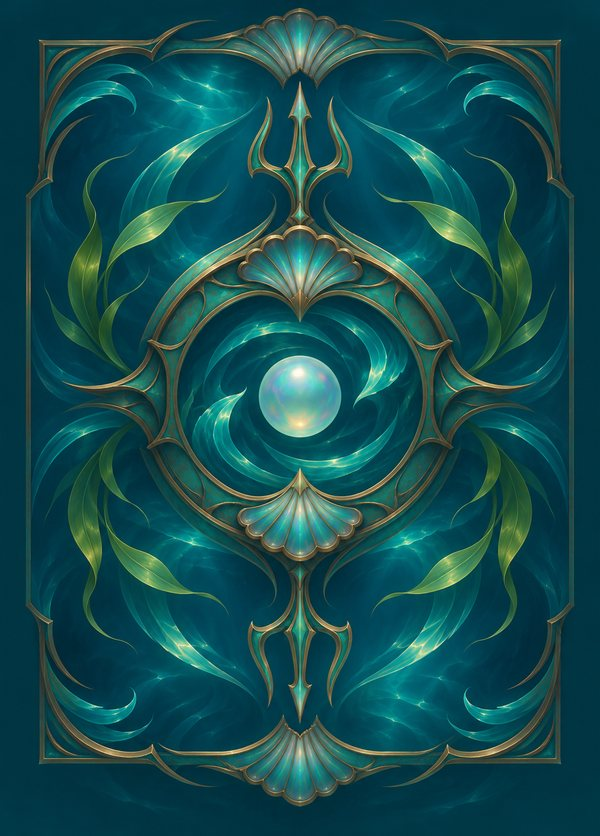
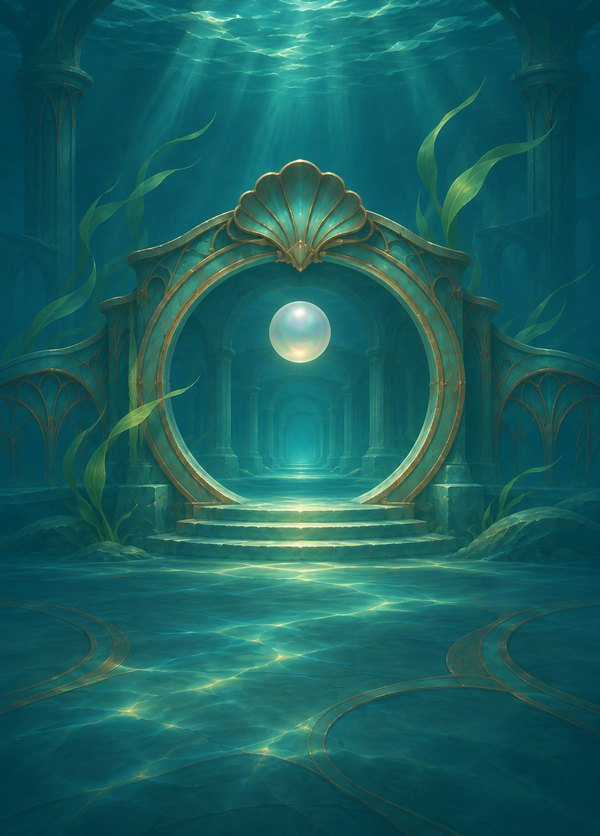
Sleeves: art for all nine original sets
From Drive (Magic Commanders / Sleeves): sleeves for Sunlit Citadel, Moonlit
Crystal City, Void Leviathan, Molten Dragon, Emerald Portal and Isle of Arcane
Storms, so each new playmat is a full set, and new sleeve art for Prism Nexus,
Sunken Gate and Eclipse Spires (portrait versions of their playmats, replacing
the ornamental backs). Saved at the app's card-back size, 600x836.

Claude-Session: https://claude.ai/code/session_01K5kL4YgVQ6tZxzA48G59TU

diff --git a/goldfish/static/looks.js b/goldfish/static/looks.js
@@ -24,7 +24,7 @@
     { id: 'prism', name: 'Prism Nexus', image: 'looks/mat-prism.jpg', shop: '' },
     { id: 'tide', name: 'Sunken Gate', image: 'looks/mat-tide.jpg', shop: '' },
     { id: 'eclipse', name: 'Eclipse Spires', image: 'looks/mat-eclipse.jpg', shop: '' },
-    // the second wave of I See Fish originals (Drive: Magic Commanders / Playmats), upscaled with Real-ESRGAN x4plus; sleeves are a colour until their art exists
+    // the second wave of I See Fish originals (Drive: Magic Commanders / Playmats), upscaled with Real-ESRGAN x4plus; their sleeves are in Magic Commanders / Sleeves
     { id: 'angel', name: 'Sunlit Citadel', image: 'looks/mat-angel.jpg', shop: '' },
     { id: 'crystal', name: 'Moonlit Crystal City', image: 'looks/mat-crystal.jpg', shop: '' },
     { id: 'leviathan', name: 'Void Leviathan', image: 'looks/mat-leviathan.jpg', shop: '' },
@@ -46,6 +46,12 @@
     { id: 'prism', name: 'Prism Nexus', color: '#b8913f', back: 'looks/sleeve-prism.jpg', shop: '' },
     { id: 'tide', name: 'Sunken Gate', color: '#2a8c86', back: 'looks/sleeve-tide.jpg', shop: '' },
     { id: 'eclipse', name: 'Eclipse Spires', color: '#8e4bb5', back: 'looks/sleeve-eclipse.jpg', shop: '' },
+    { id: 'angel', name: 'Sunlit Citadel', color: '#d6ad4f', back: 'looks/sleeve-angel.jpg', shop: '' },
+    { id: 'crystal', name: 'Moonlit Crystal City', color: '#4f9fe0', back: 'looks/sleeve-crystal.jpg', shop: '' },
+    { id: 'leviathan', name: 'Void Leviathan', color: '#9b4fd1', back: 'looks/sleeve-leviathan.jpg', shop: '' },
+    { id: 'dragon', name: 'Molten Dragon', color: '#d2452a', back: 'looks/sleeve-dragon.jpg', shop: '' },
+    { id: 'emerald', name: 'Emerald Portal', color: '#2fa85a', back: 'looks/sleeve-emerald.jpg', shop: '' },
+    { id: 'storm', name: 'Isle of Arcane Storms', color: '#2f6fd0', back: 'looks/sleeve-storm.jpg', shop: '' },
     { id: 'ice', name: 'Ice blue', color: '#4aa6e0' },
     { id: 'black', name: 'Matte black', color: '#1d1f22' },
     { id: 'white', name: 'Pearl white', color: '#e9edf0' },
@@ -111,7 +117,7 @@
 
   // ---- sets: a playmat with its matching sleeves. The 1v1 and Pod tables deal one to every player. ----
   // The original designs pair with the sleeve of the same name; each plain playmat pairs with a sleeve colour that suits it.
-  const PAIR = { angel: 'gold', crystal: 'ice', leviathan: 'purple', dragon: 'red', emerald: 'green', storm: 'sapphire', felt: 'green', crimson: 'red', royal: 'purple', slate: 'black', dusk: 'orange', tidepool: 'ice', stars: 'sapphire', sand: 'gold' };
+  const PAIR = { felt: 'green', crimson: 'red', royal: 'purple', slate: 'black', dusk: 'orange', tidepool: 'ice', stars: 'sapphire', sand: 'gold' };
   const SETS = MATS.filter(m => m.id !== 'frozen').map(m => {
     const s = SLEEVES.find(x => x.id === m.id && x.color) || SLEEVES.find(x => x.id === PAIR[m.id]);
     return s ? { id: m.id, name: m.name, mat: m.id, sleeve: s.id, art: !!m.image } : null;

diff --git a/tests/ui/looks.ui.js b/tests/ui/looks.ui.js
@@ -30,12 +30,13 @@ const check = (name, ok, detail) => { (ok ? pass++ : fail++); console.log((ok ? 
   check('choosing a playmat changes the table background', (await bg()) !== bg0);
   check('choosing a sleeve changes the card back', (await back()) !== back0 && await p.$eval('html', e => e.classList.contains('sleeved')));
   check('the chosen ones are marked in the picker', await p.$eval('[data-mat=crimson]', e => e.getAttribute('aria-pressed')) === 'true' && await p.$eval('[data-sleeve=green]', e => e.getAttribute('aria-pressed')) === 'true');
-  check('your nine original playmats and the three original sleeves each have a placeholder shop button', (await p.$$eval('button.look-shop.soon', x => x.length)) === 12);
+  check('your nine original playmats and their nine sleeves each have a placeholder shop button', (await p.$$eval('button.look-shop.soon', x => x.length)) === 18);
+  check('each new playmat has its own sleeve art, so they are full sets', (await p.$$eval('#lkSleeves .look-sw', x => x.map(b => b.dataset.sleeve))).filter(m => ['angel', 'crystal', 'leviathan', 'dragon', 'emerald', 'storm'].includes(m)).length === 6 && await p.evaluate(() => ['angel', 'crystal', 'leviathan', 'dragon', 'emerald', 'storm'].every(id => __isfLooks.SLEEVES.find(s => s.id === id && /sleeve-/.test(s.back)))));
   check('the six new playmats are listed with their upscaled art', (await p.$$eval('#lkMats .look-sw', x => x.map(b => b.dataset.mat))).filter(m => ['angel', 'crystal', 'leviathan', 'dragon', 'emerald', 'storm'].includes(m)).length === 6);
   await p.click('button.look-shop.soon[data-shop="mat:tide"]');
   check('clicking a placeholder says the shop is coming soon, and changes nothing', /Sunken Gate playmat is coming soon/.test(await p.textContent('#lkShopMsg')) && (await p.evaluate(() => __isfLooks.get().mat)) === 'crimson' && p.url().startsWith('http://127.0.0.1:8800/'));
   await p.evaluate(() => { __isfLooks.MATS.find(m => m.id === 'prism').shop = 'https://example.com/prism-mat'; __isfLooks.close(); __isfLooks.open(); });
-  check('filling in a shop URL turns the placeholder into a real link', (await p.$eval('a.look-shop[data-shop="mat:prism"]', e => e.href)) === 'https://example.com/prism-mat' && (await p.$$eval('button.look-shop.soon', x => x.length)) === 11);
+  check('filling in a shop URL turns the placeholder into a real link', (await p.$eval('a.look-shop[data-shop="mat:prism"]', e => e.href)) === 'https://example.com/prism-mat' && (await p.$$eval('button.look-shop.soon', x => x.length)) === 17);
   await p.keyboard.press('Escape');
   check('Escape closes it', !(await p.isVisible('#lookPicker')));
 

diff --git a/tests/ui/versus.ui.js b/tests/ui/versus.ui.js
@@ -195,12 +195,12 @@ const shot = process.env.VERSUS_SHOTS;
   // playmats and sleeves: every player is dealt a random set, all different; your own pick goes on your seat
   const seatLooks = () => p.$$eval('#tab-pod .vs-seat', ss => ss.map(s => ({ me: s.classList.contains('me'), set: s.dataset.set, sleeved: s.classList.contains('sleeved'),
     mat: getComputedStyle(s).backgroundImage, sleeve: s.style.getPropertyValue('--sleeve'), back: getComputedStyle(s.querySelector('.card-back')).backgroundImage })));
-  const lk = await seatLooks(), originals = ['Prism Nexus', 'Sunken Gate', 'Eclipse Spires'];
+  const lk = await seatLooks(), originals = await p.evaluate(() => window.__isfLooks.MATS.filter(m => m.image).map(m => m.name));          // the I See Fish original sets (art playmat + art sleeves)
   check('every player in the pod has a playmat-and-sleeves set', lk.length === 4 && lk.every(x => x.set && x.sleeved && x.mat !== 'none' && x.sleeve), lk.map(x => (x.me ? 'You: ' : '') + x.set).join(' | '));
   check('no two players have the same set', new Set(lk.map(x => x.set)).size === 4 && new Set(lk.map(x => x.mat)).size === 4);
-  check('the three original designs are all on the table', originals.every(n => lk.some(x => x.set === n)));
+  check(`the original designs are dealt first: every seat has one of the ${originals.length} original sets`, originals.length >= 9 && lk.every(x => originals.includes(x.set)), lk.map(x => x.set).join(' | '));
   check('each library shows that player\'s own sleeve back', new Set(lk.map(x => x.back)).size === 4);
-  const oppSet = lk.find(x => !x.me).set, oppId = { 'Prism Nexus': 'prism', 'Sunken Gate': 'tide', 'Eclipse Spires': 'eclipse' }[oppSet] || 'prism';
+  const oppSet = lk.find(x => !x.me).set, oppId = await p.evaluate(n => (window.__isfLooks.MATS.find(m => m.name === n) || { id: 'prism' }).id, oppSet);
   await p.evaluate(id => window.__isfLooks.set({ mat: id, sleeve: id }), oppId);          // you pick the set the first opponent was dealt
   await p.waitForTimeout(300);
   const lk2 = await seatLooks();

diff --git a/goldfish/static/sw.js b/goldfish/static/sw.js
@@ -1,5 +1,5 @@
 /* Service worker: lets the app open offline and keeps card images you've already seen. */
-const VERSION = 'isf-v55';
+const VERSION = 'isf-v56';
 const SHELL = ['./', 'index.html', 'styles.css', 'app.js', 'versus.js', 'versus.css', 'decide.js', 'choices.js', 'choices.css', 'sim.js', 'source.js', 'charts.js', 'suggest.js', 'profile.js', 'tags.js', 'decks/index.json', 'looks.js', 'audio.js', 'worker.js', 'manifest.webmanifest', 'logo.svg', 'donate-qr.jpg',
   'icons/icon-192.png', 'icons/icon-512.png', 'icons/apple-touch-icon.png'];
 const IMG = 'gf-img-v1';
